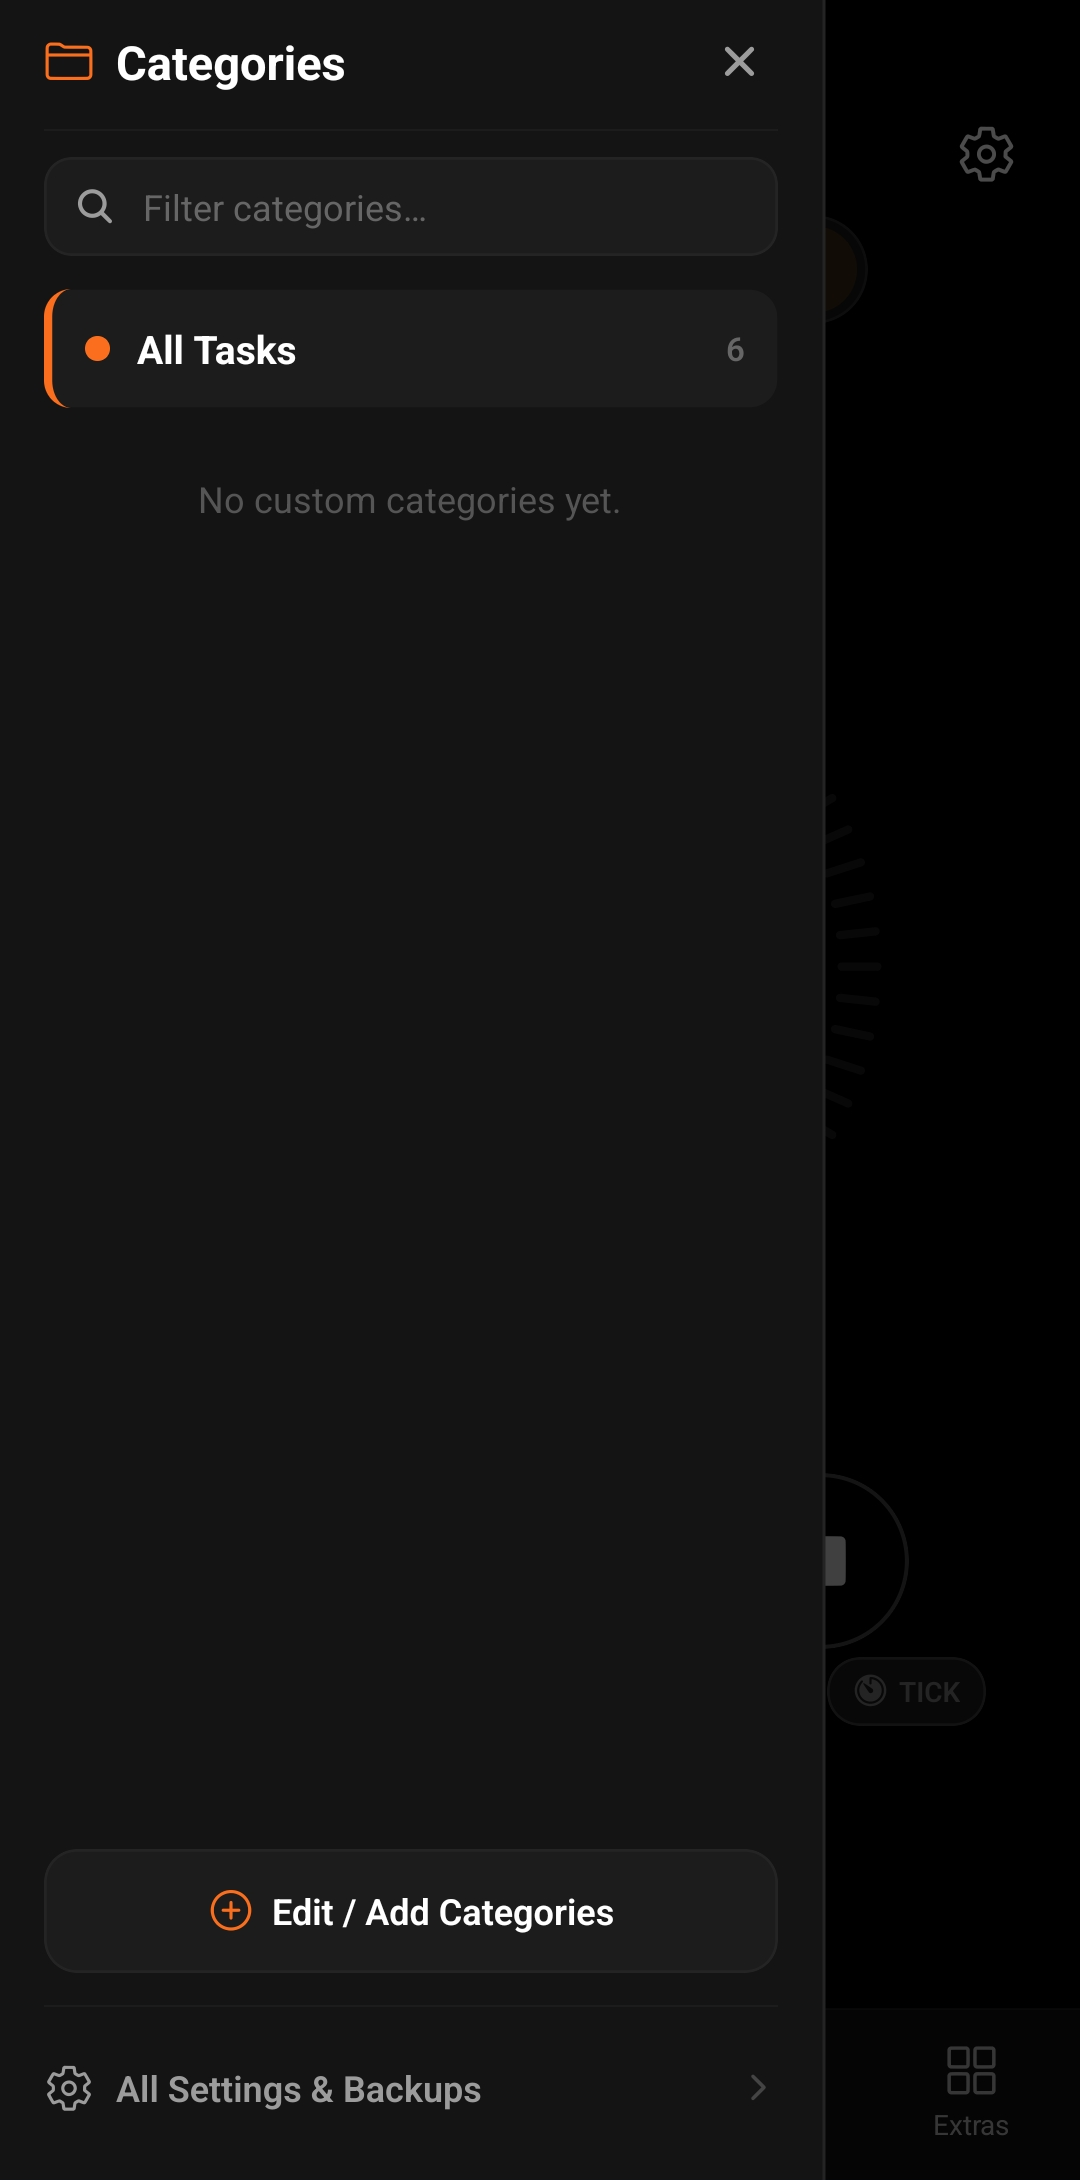
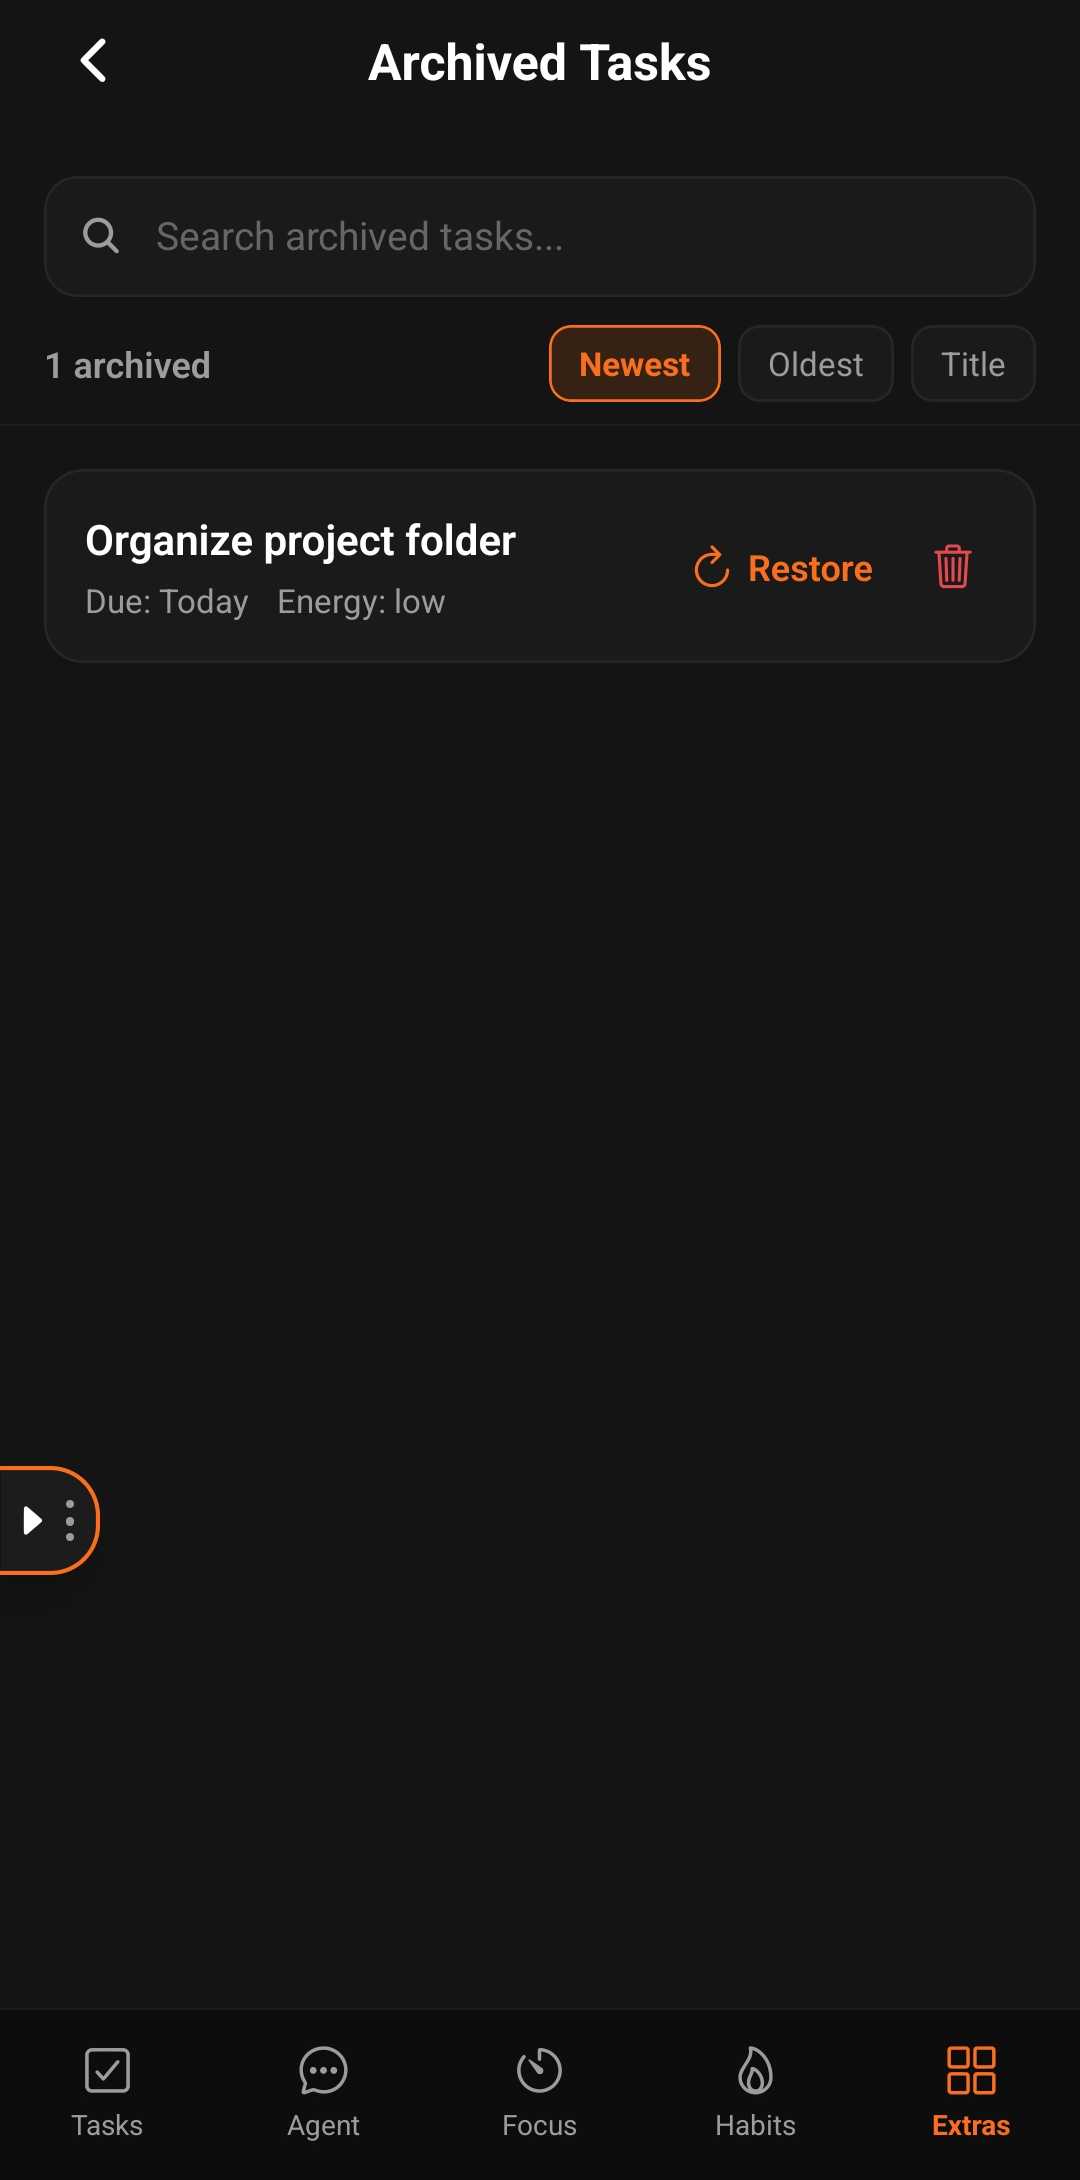
docs: map all verified screenshots to correct features and expand visual tour

diff --git a/README.md b/README.md
@@ -12,19 +12,23 @@ EasyTasky is a high-performance, mobile-first task, habit, and time-planning app
 
 ## 📱 Visual App Tour
 
-Below is a direct tour of EasyTasky's core interface, captured from active mobile productivity sessions.
+Below is a direct tour of EasyTasky's core interface, captured from active mobile productivity sessions on Android.
 
-| 📋 Tasks & Matrix | 📂 Category Drawer | 🎙 AI Agent Chat | 📞 Voice Call Mode |
+| 📋 Tasks & Matrix Priorities | 📂 Category & Section Drawer | 🎙 AI Agent Chat & Actions | 📞 Real-Time Voice Call Mode |
 | :---: | :---: | :---: | :---: |
 | <img src="screenshots/feature_tasks.png" width="220" alt="Tasks Screen" /> | <img src="screenshots/feature_sidebar.png" width="220" alt="Category Sidebar" /> | <img src="screenshots/feature_agent.png" width="220" alt="AI Agent Companion" /> | <img src="screenshots/feature_call_mode.png" width="220" alt="Voice Call Mode" /> |
 
-| 🔥 Habit Streaks & Week Strip | 📊 52-Week Year Heatmap | ⏱ Pomodoro Focus Dial | 📈 Performance Velocity |
+| 🔥 Habit Streaks & Week Strip | 📊 52-Week Year Heatmap | ⏱ Pomodoro Focus Dial | 🏃 Live Stopwatch Session |
 | :---: | :---: | :---: | :---: |
-| <img src="screenshots/feature_habits.png" width="220" alt="Habits Screen" /> | <img src="screenshots/feature_habit_detail.png" width="220" alt="Annual Streak Heatmap" /> | <img src="screenshots/feature_focus.png" width="220" alt="Focus Timer" /> | <img src="screenshots/feature_review.png" width="220" alt="Review & Velocity" /> |
+| <img src="screenshots/feature_habits.png" width="220" alt="Habits Screen" /> | <img src="screenshots/feature_habit_detail.png" width="220" alt="Annual Streak Heatmap" /> | <img src="screenshots/feature_focus.png" width="220" alt="Focus Timer" /> | <img src="screenshots/feature_focus_running.png" width="220" alt="Live Focus Session" /> |
 
-| 🧭 4-Quadrant Eisenhower | ⏱ Timebox & Buffer Schedule | 🌙 Shutdown Rituals | 📲 In-App Auto-Updater |
+| 📈 Performance & Velocity | 🗓 52-Week Review Heatmap | 🧭 4-Quadrant Eisenhower | ⏱ Timebox & Buffer Schedule |
 | :---: | :---: | :---: | :---: |
-| <img src="screenshots/feature_eisenhower.png" width="220" alt="Eisenhower Matrix" /> | <img src="screenshots/feature_timebox.png" width="220" alt="Timeboxing Tool" /> | <img src="screenshots/feature_shutdown.png" width="220" alt="Shutdown Ritual" /> | <img src="screenshots/feature_updater.png" width="220" alt="In-App Auto-Updater" /> |
+| <img src="screenshots/feature_review.png" width="220" alt="Review & Velocity" /> | <img src="screenshots/feature_review_heatmap.png" width="220" alt="52-Week Velocity Heatmap" /> | <img src="screenshots/feature_eisenhower.png" width="220" alt="Eisenhower Matrix" /> | <img src="screenshots/feature_timebox.png" width="220" alt="Timeboxing Tool" /> |
+
+| 🎯 3-3-3 Focus Day Planner | 📓 Next-Day Notebook | 🌙 Evening Shutdown Ritual | 📲 In-App Auto-Updater |
+| :---: | :---: | :---: | :---: |
+| <img src="screenshots/feature_333_plan.png" width="220" alt="3-3-3 Focus Planner" /> | <img src="screenshots/feature_nextday_notebook.png" width="220" alt="Next-Day Notebook" /> | <img src="screenshots/feature_shutdown.png" width="220" alt="Shutdown Ritual" /> | <img src="screenshots/feature_updater.png" width="220" alt="In-App Auto-Updater" /> |
 
 ---
 
